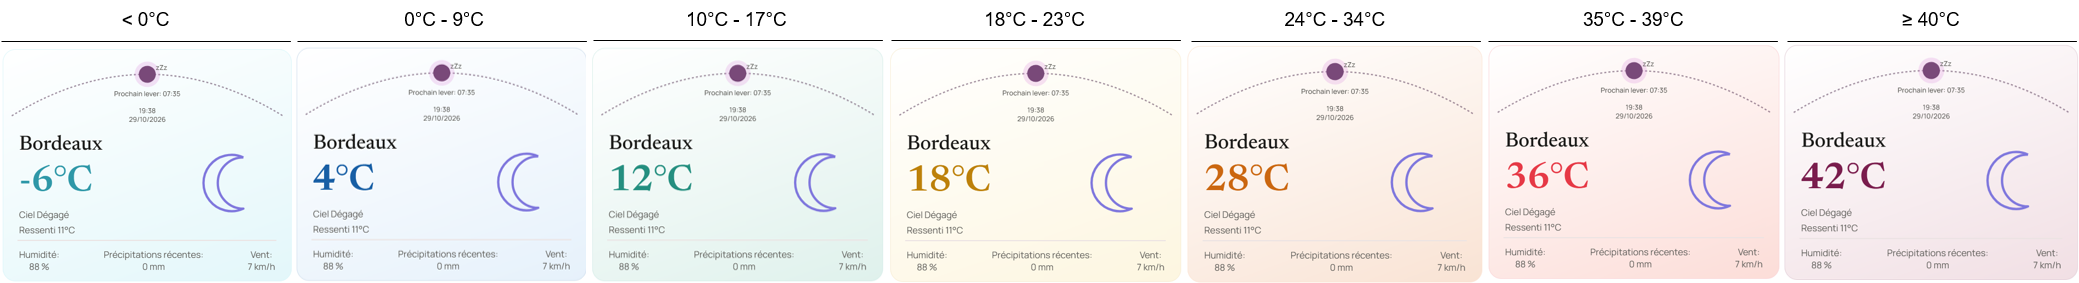
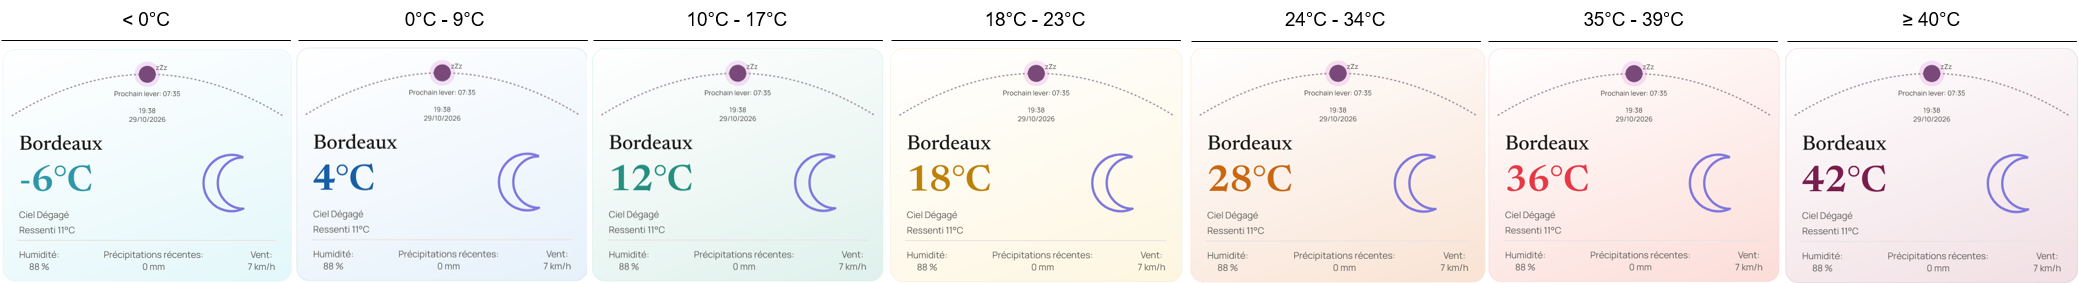
docs: mise à jour des liens et corrections orthographiques

diff --git a/README.md b/README.md
@@ -4,17 +4,17 @@ MétéoSpot est une application météo mobile-first, développée en HTML, CSS 
 
 ## Fonctionnalités
 
-- Recherche d'une ville et météo actuelle
-- Prévisions de la journée (par créneaux) et des 4 prochains jours
-- Arc représentant la trajectoire du soleil
+- Météo actuelle
+- Prévisions des prochaines heures et des 4 prochains jours
+- Recherche d'une ville
 - Géolocalisation
-- Onglets des villes recherchées, conservés dans le navigateur
+- Onglets des villes recherchées conservés dans le navigateur
 - Palette de couleurs qui varie selon la température
 - Gestion des états : bienvenue, localisation désactivée, erreur de l'API
 
 ## Contexte
 
-Ce projet part d'un exercice de ma formation CDA (Concepteur Développeur d'Applications) portant sur la manipulation du DOM et les appels API fetch. Le périmètre initial étant limité, j'ai choisi d'en faire un vrai projet personnel complet avec une maquette, un backlog structuré et un workflow git, afin de développer une petite application de A à Z et de la déployer, plutôt que de coder une fonctionnalité isolée.
+Ce projet part d'un exercice de ma formation CDA (Concepteur Développeur d'Applications) portant sur la manipulation du DOM et les appels API fetch. Le périmètre initial étant limité, j'ai choisi d'en faire un vrai projet personnel complet avec un design, un backlog structuré et un workflow git, pour développer une petite application de A à Z et la déployer, plutôt que de coder une fonctionnalité isolée.
 
 Ce travail est réalisé en dehors des heures de formation, avec une disponibilité variable selon la charge des cours.
 
@@ -71,24 +71,6 @@ meteospot/
 
 Le code est organisé selon une architecture modulaire afin de séparer les responsabilités. Chaque fichier JavaScript a ainsi un rôle unique afin de rendre le projet plus lisible, plus facile à tester et à faire évoluer.
 
-## Design
-
-La maquette a été conçue par itérations successives avec l'aide de l'IA, sans passer par Figma. La direction de départ, de type dashboard bleu en glassmorphism m'a semblé trop générique. Je l'ai donc retravaillée vers une identité plus sobre: fond clair, typographies Newsreader et Manrope, palette de couleurs évolutive.
-
-Le détail du processus de conception est décrit dans [docs/design/process.md](docs/design/process.md). Ce document est historique, car le design et l'esthétique ont évolué au cours du projet et les maquettes qu'il présente ne correspondent plus à l'application.
-La référence actuelle (couleurs, typographie, icônes) est résumée dans le fichier [docs/design/design-system.md](docs/design/design-system.md)
-
-L'application se distingue par un arc qui représente la trajectoire du soleil entre le lever et le coucher du soleil. La nuit, le soleil reste en position fixe au centre de l'arc et l'heure du prochain lever est indiquée. Egalement, la couleur du fond de la carte météo, de sa bordure et du chiffre de la température varie selon la température affichée, afin de donner une indication visuelle immédiate du ressenti climatique.
-
-## Place de l'IA dans le projet
-
-J'ai eu recours à l'IA (Claude, Anthropic) tout au long du projet, comme un "tuteur" pour comprendre de nouvelles notions, diagnostiquer et résoudre des bugs, ou comparer des options de conception. Certaines solutions m'ont été proposées par l'IA, le plus souvent avec une explication ligne par ligne afin de pouvoir bien comprendre ce que fait le code (et pourquoi) et savoir l'expliquer.
-
-L'IA a également été utilisée pour le rendu visuel des maquettes, la création des icônes et des tests unitaires de la palette des couleurs ; et sur une grande partie de la documentation, afin d'accélérer le processus d'écriture. Toute la documentation a été relue, complétée et modifiée par mes soins avant intégration.
-
-## Avancement
-Un journal de suivi a été mis en place, afin d'avoir un historique d'évolution visuelle du projet selon son avancement ([voir le document](docs/progress)).
-
 ## Installation et tests
 ### Installer le projet
 
@@ -115,6 +97,23 @@ Un journal de suivi a été mis en place, afin d'avoir un historique d'évolutio
 
 ### Lancer les tests unitaires
 Le lancement des tests unitaires s'effectue par la ligne de commande `npm test`.
+## Design
+
+La maquette a été conçue par itérations successives avec l'aide de l'IA, sans passer par Figma. La direction de départ, de type dashboard bleu en glassmorphism m'a semblé trop générique. Je l'ai donc retravaillée vers une identité plus sobre: fond clair, typographies Newsreader et Manrope, palette de couleurs évolutive.
+
+Le détail du processus de conception est décrit dans [docs/design/process.md](docs/design/process.md). Ce document est historique, car le design et l'esthétique ont évolué au cours du projet et les maquettes qu'il présente ne correspondent plus à l'application.
+La référence actuelle (couleurs, typographie, icônes) est résumée dans le fichier [docs/design/design-system.md](docs/design/design-system.md)
+
+L'application se distingue par un arc qui représente la trajectoire du soleil entre le lever et le coucher du soleil. La nuit, le soleil reste en position fixe au centre de l'arc et l'heure du prochain lever est indiquée. Egalement, la couleur du fond de la carte météo, de sa bordure et du chiffre de la température varie selon la température affichée, afin de donner une indication visuelle immédiate du ressenti climatique.
+
+## Place de l'IA dans le projet
+
+J'ai eu recours à l'IA (Claude, Anthropic) tout au long du projet, comme un "tuteur" pour comprendre de nouvelles notions, diagnostiquer et résoudre des bugs, ou comparer des options de conception. Certaines solutions m'ont été proposées par l'IA, le plus souvent avec une explication ligne par ligne afin de pouvoir bien comprendre ce que fait le code (et pourquoi) et savoir l'expliquer.
+
+L'IA a également été utilisée pour le rendu visuel des maquettes, la création des icônes et des tests unitaires de la palette des couleurs ; et sur une grande partie de la documentation, afin d'accélérer le processus d'écriture. Toute la documentation a été relue, complétée et modifiée par mes soins avant intégration.
+
+## Avancement
+Un journal de suivi a été mis en place, afin d'avoir un historique d'évolution visuelle du projet selon son avancement ([voir le document](docs/progress)).
 
 ## Crédits
 - Données météo : OpenWeather.

diff --git a/docs/design/process.md b/docs/design/process.md
@@ -16,7 +16,7 @@ Le point de départ initial du projet était de développer une application mét
 
 La première maquette proposée était fonctionnelle mais reconnaissable et très proche du langage visuel de nombreuses applications avec dégradé bleu et icônes génériques. Utile comme base de discussion, mais pas comme identité propre.
 
-![illustration de la maquette initiale](versions/1_prompt-initial.png)
+![Illustration de la maquette initiale](process-images/1_prompt-initial.png)
 
 ## 2. Supprimer les éléments inutiles
 
@@ -26,19 +26,19 @@ Même si le rendu visuel était trop générique, la première projection m'a pe
 
 Une fois la structure posée, de nombreuses itérations ont été nécessaires afin d'essayer de sortir des designs génériques édités par IA. Au final, plutôt que de changer la structure de l'application elle-même, le choix a été fait de partir sur une base un peu plus éditoriale avec l'ajout d'un arc de positionnement du soleil dans la carte principale et un gros chiffre de température.
 
-![Versions 3](versions/2_V3-itération.png)
+![Versions intermédiaire](process-images/2_V3-itération.png)
 
 ## 4. Un système de couleur dynamique
 
 Plutôt qu'une couleur fixe, la couleur du bloc météo principal a été reliée à la température réelle selon 7 tranches, allant de "très froid" à "extrême", chacune avec un dégradé de texte et un fond dédiés. Après plusieures itérations pour trouver les bonnes associations, le rendu des 7 palliers devrait être le suivant:
-![Palette couleurs représentant les 7 transches de températures](versions/3_Palette-couleurs.png)
+![Palette couleurs représentant les 7 transches de températures](process-images/3_Palette-couleurs.png)
 
 ## 5. Un vrai set d'icônes
 
 Pour essayer de s'éloigner un peu plus loin des designs classiques, j'ai décidé de ne pas utiliser une librairie d'icônes, mais de réaliser un set d'icônes personnalisé avec l'IA.
 Les icônes ont connu plusieurs versions avant validation : d'abord de simples formes géométriques (jugées trop pauvres), puis un style inspiré de la bibliothèque Skycons (formes non remplies au contour fin). Le set final compte 14 conditions météo, chacune livrée en deux versions : statique (pour les listes de prévisions) et animée  (pour le bloc principal).
 
-![Visuel des icônes](versions/4_icones.png)
+![Visuel des icônes](process-images/4_icones.png)
 
 ## 6. Typographie
 Pour renforcer le style éditorial de l'application, et pour se différencier des polices actuellement utilisées partout comme Roboto, mon choix s'est arrêté sur **Newsreader** (serif éditoriale) pour les éléments vedettes : nom de ville, température, titres et **Manrope** (sans-serif neutre) pour le reste.
@@ -46,13 +46,13 @@ Pour renforcer le style éditorial de l'application, et pour se différencier de
 ## 7. Nom
 Une fois les sections et le design validés, une reflexion a été menée sur le nom et la phrase d'accroche de l'application. Le choix s'est finalement arrêté sur " **MéteoSpot**, la météo d'ici et d'ailleurs"
 
-![version finale](versions/5_version-finale.png)
+![Version finale](process-images/5_version-finale.png)
 
 ## 8. Les cas limites
 
 Afin d'améliorer l'expérience utilisateur, j'ai souhaité intégrer des écrans d'état afin d'avertir l'utilisateur en cas d'erreur d'api ou de problème de localisation.
 
-![visuels pour les différents états + version finale](versions/6_états.png)
+![Visuels des différents états](process-images/6_états.png)
 
 ## 9. Desktop et tablette
 

diff --git a/docs/design/archive/design-system-initial.md b/docs/design/archive/design-system-initial.md
@@ -1,5 +1,5 @@
 # MétéoSpot — Système de design
->Archive. Spécification initiale avant implémentation. De nombreux changements ont été réalisés lors du développement.Voir le fichier [design-system.md](../design-system.md) pour obtenir la spécification de l'application actuelle.
+>Archive. Spécification initiale avant implémentation. De nombreux changements ont été réalisés lors du développement. Voir le fichier [design-system.md](../design-system.md) pour obtenir la spécification de l'application actuelle.
 
 Document de référence pour l'implémentation concrète du mockup mobile. Contient la palette couleur liée à la température, la typographie, les icônes SVG, et les tokens de mise en page.
 

diff --git a/docs/progress/README.md b/docs/progress/README.md
@@ -1,7 +1,7 @@
 # Journal de progression — MétéoSpot
 
 Ce dossier regroupe les captures illustrant l'avancement visuel du projet.
-Le suivi détaillé des tickets se fait sur le GitHub Project [https://github.com/users/CharlotteQuentin-Froignant/projects/1].
+Le suivi détaillé des tickets se fait sur le GitHub Project ([voir le projet](https://github.com/users/CharlotteQuentin-Froignant/projects/1)).
 
 ---
 
